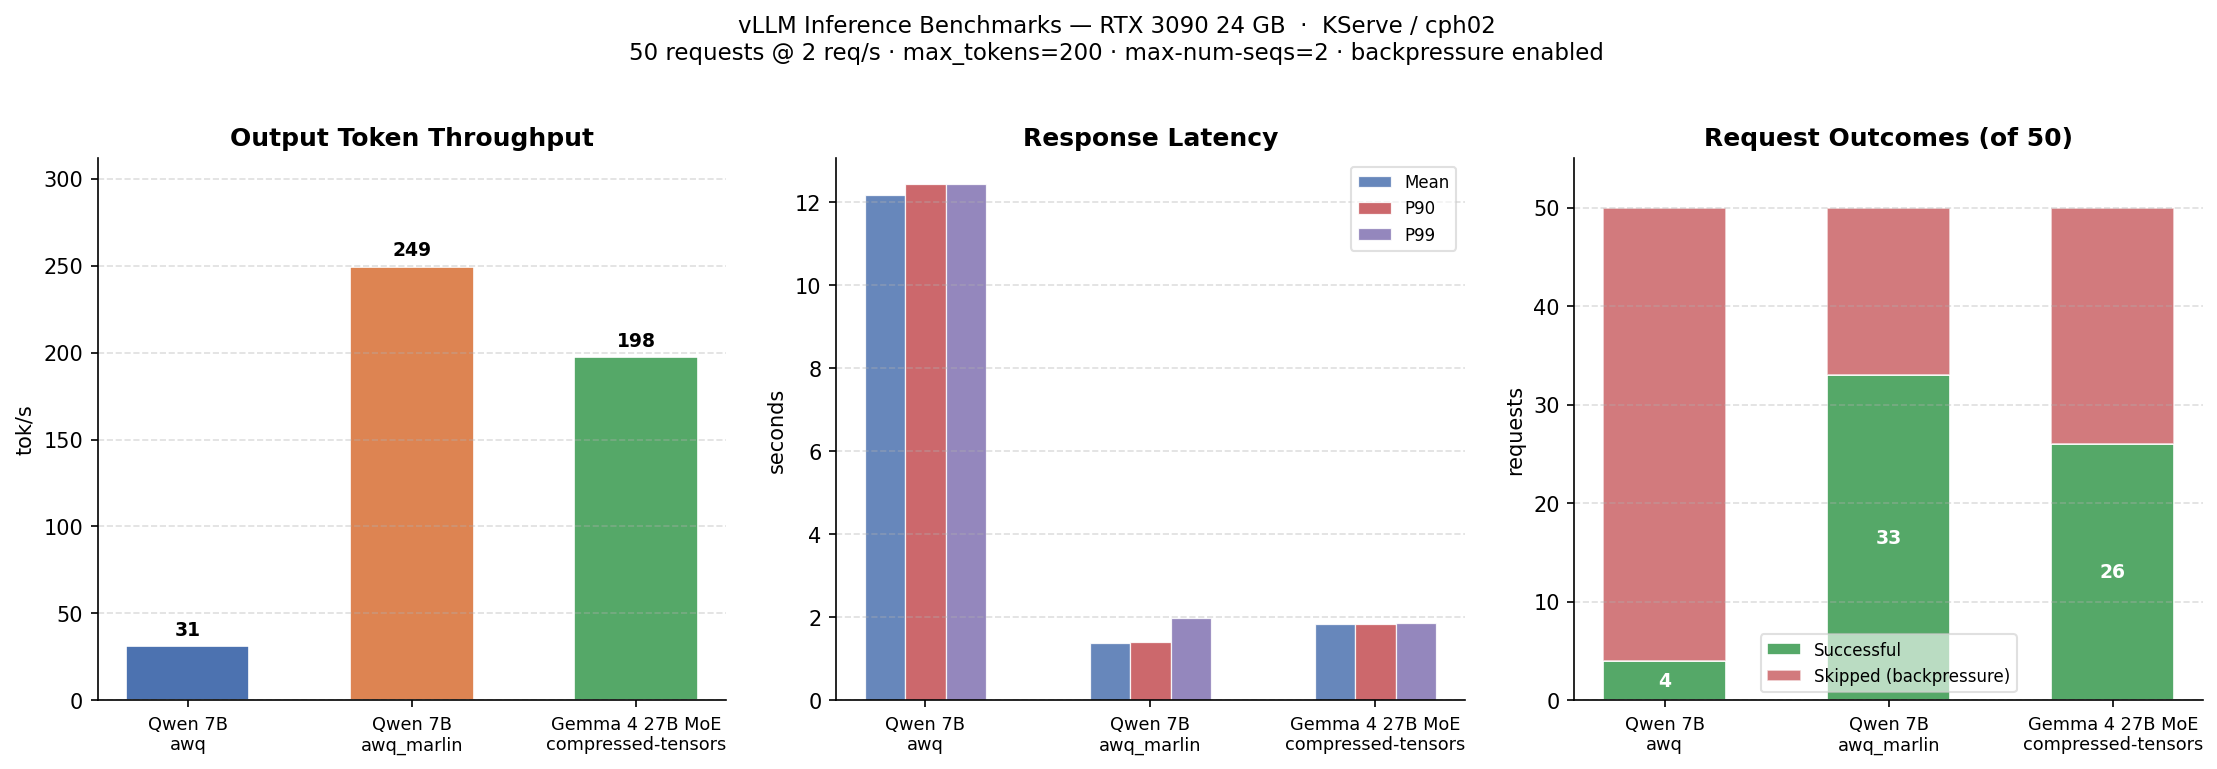
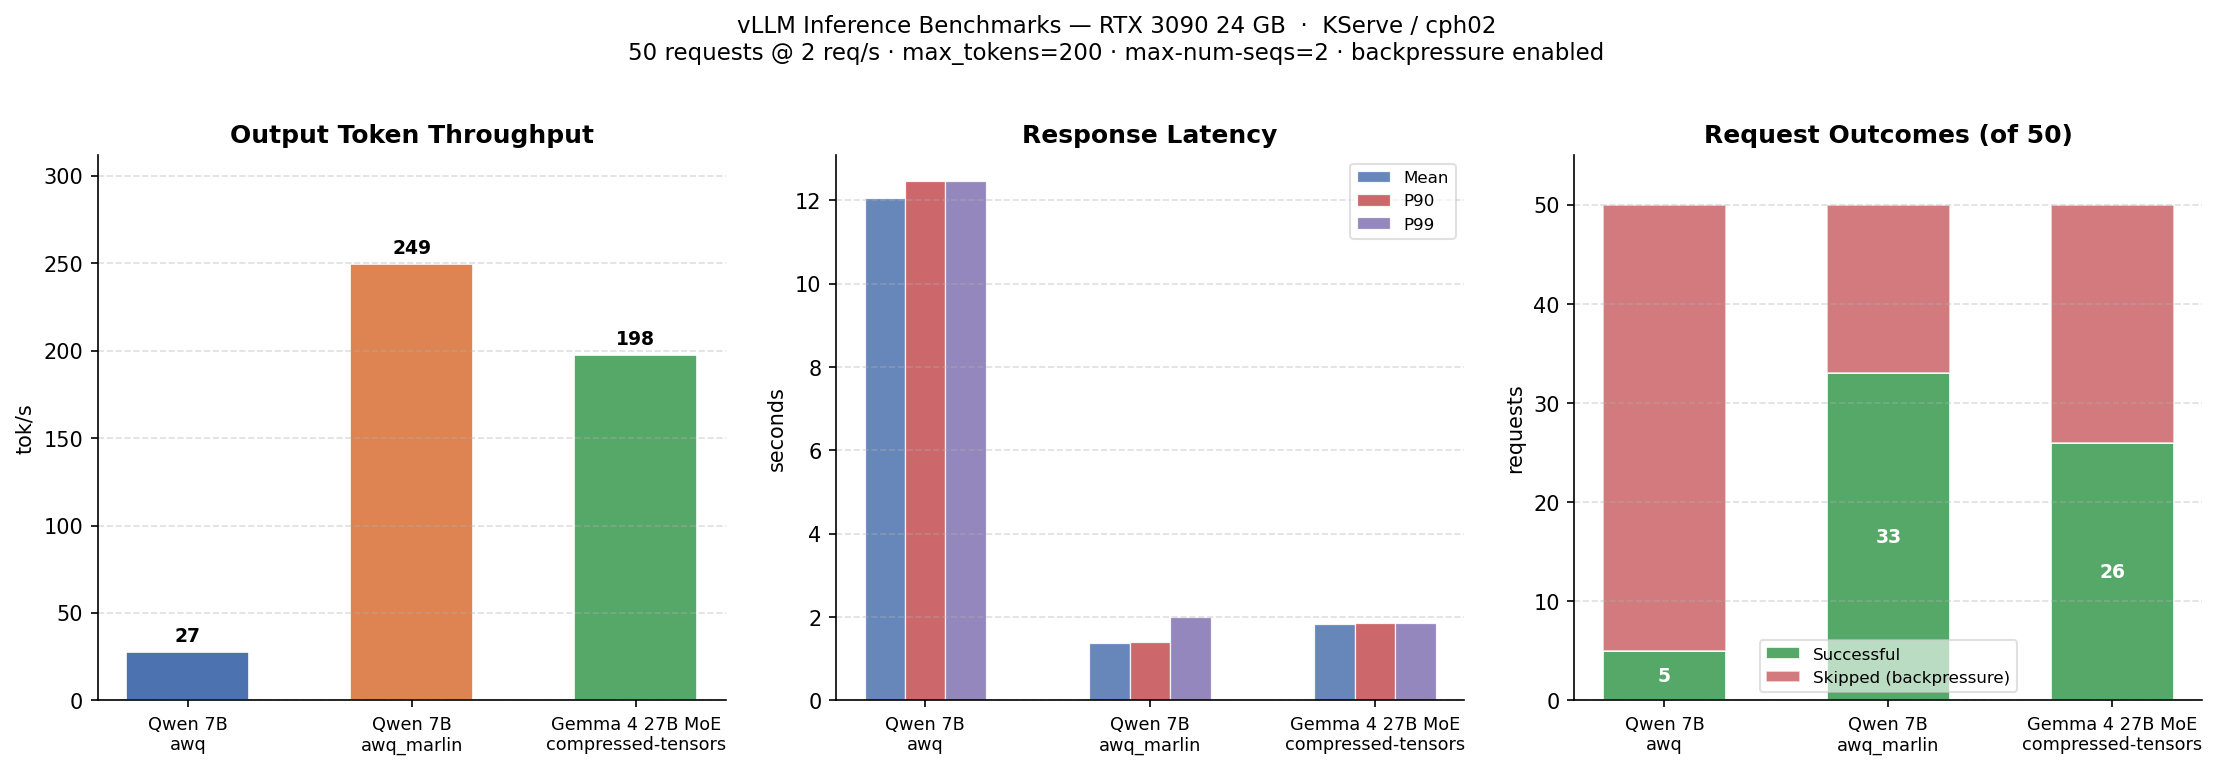
bench(llm): rerun Qwen 7B awq benchmark with backpressure middleware confirmed active
Re-ran the AWQ baseline with the BackpressureMiddleware in place (confirmed via
/load endpoint check before each request). Results are consistent with the prior
run: ~27 tok/s output throughput, ~12s mean latency, 45 of 50 requests skipped
by backpressure at 2 req/s. Also reverts quantization in qwen25-coder.yaml back
to awq_marlin (the production setting) since this was a temporary benchmark run.

diff --git a/benchmark.md b/benchmark.md
@@ -33,20 +33,20 @@ Each benchmark sends **50 chat completion requests** at **2 req/s**, with each p
 | Metric | Value |
 |--------|-------|
 | Requests | 50 |
-| Successful | 4 |
-| Skipped (backpressure) | 46 |
+| Successful | 5 |
+| Skipped (backpressure) | 45 |
 | Failed (error) | 0 |
-| Total time | 25.57 s |
-| Request throughput | 0.16 req/s |
-| Output token throughput | 31.28 tok/s |
-| Total token throughput | 37.27 tok/s |
-| Latency mean | 12.185 s |
-| Latency median | 12.182 s |
-| Latency stdev | 0.237 s |
-| Latency P90 | 12.438 s |
-| Latency P99 | 12.438 s |
-| Latency min | 11.937 s |
-| Latency max | 12.438 s |
+| Total time | 36.52 s |
+| Request throughput | 0.14 req/s |
+| Output token throughput | 27.38 tok/s |
+| Total token throughput | 32.67 tok/s |
+| Latency mean | 12.062 s |
+| Latency median | 11.958 s |
+| Latency stdev | 0.234 s |
+| Latency P90 | 12.458 s |
+| Latency P99 | 12.458 s |
+| Latency min | 11.887 s |
+| Latency max | 12.458 s |
 
 ---
 
